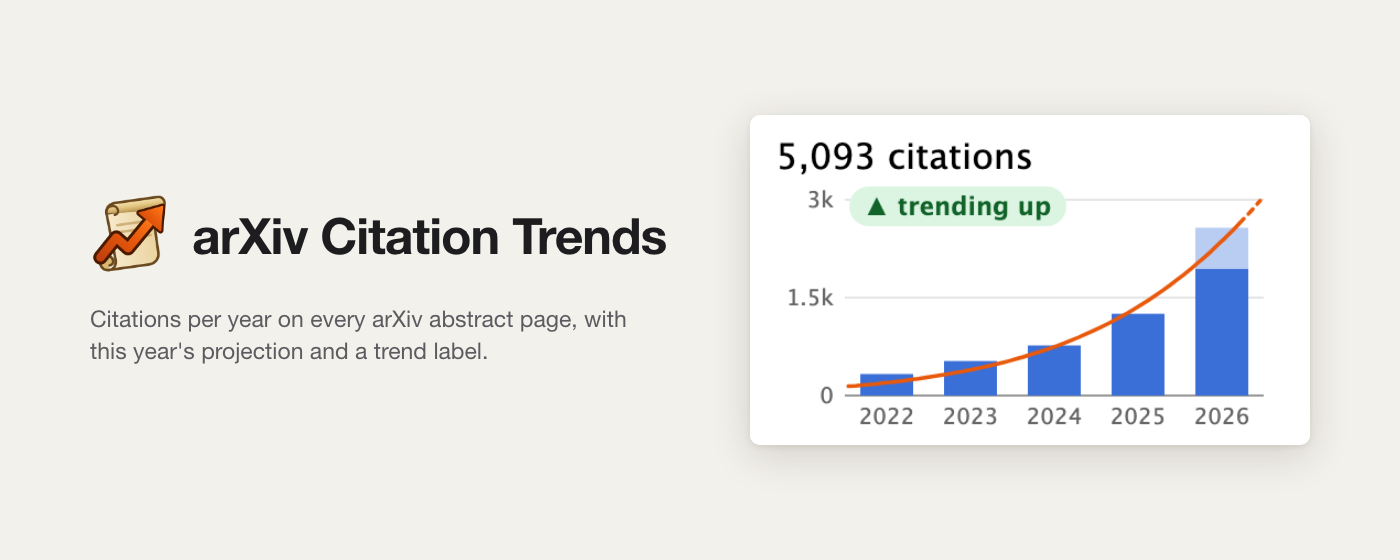
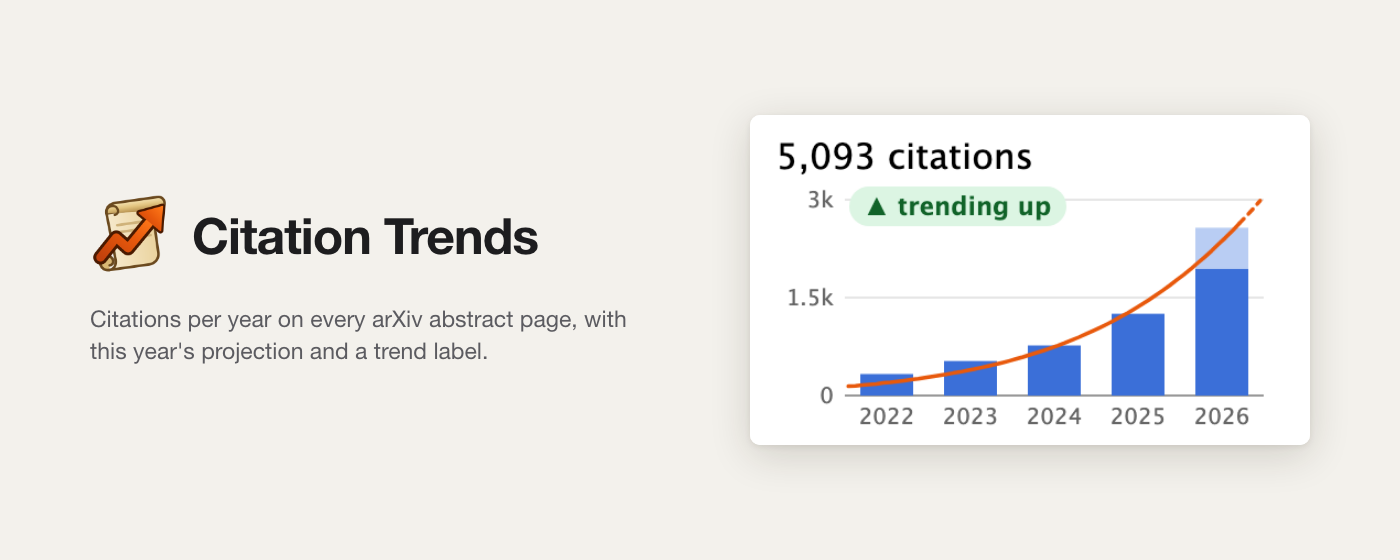
Rename to Citation Trends; store listing text; not-affiliated notes

Changed region(s): [[0.1229, 0.3643, 0.4914, 0.4554]]

diff --git a/static/options.html b/static/options.html
@@ -2,7 +2,7 @@
 <html lang="en">
 <head>
   <meta charset="utf-8">
-  <title>arXiv Citation Trends options</title>
+  <title>Citation Trends options</title>
   <style>
     body { font: 13px/1.5 -apple-system, BlinkMacSystemFont, "Segoe UI", Roboto, sans-serif; margin: 16px; min-width: 360px; color: #222; background: #fff; }
     label { display: block; font-weight: 600; margin-bottom: 4px; }

diff --git a/docs/store/listing.md b/docs/store/listing.md
@@ -1,0 +1,33 @@
+# Chrome Web Store listing
+
+**Name:** Citation Trends
+
+**Summary** (132 characters max):
+Citations per year on arXiv abstract pages, with this year's projection and a trend label. Not affiliated with arXiv.
+
+**Category:** Productivity
+
+**Description:**
+
+See where a paper is heading. Citation Trends adds a small chart to every arXiv abstract page, right under "Access Paper":
+
+- Citations per year for the last five years
+- The projected total for this year
+- An S-curve fit of the citation rate
+- A label: trending up, flat or trending down
+
+Hover a bar for that year's count, or the label for the numbers behind it.
+
+Citation data comes from Semantic Scholar. A free Semantic Scholar API key, added in the extension options, makes loading faster.
+
+Citation Trends is an independent project. It is not affiliated with, reviewed by or endorsed by arXiv or Semantic Scholar.
+
+**Single purpose:** show citation trends for the paper on an arXiv abstract page.
+
+**Permission justifications:**
+- storage: caches citation counts so charts load instantly, and keeps the optional API key.
+- api.semanticscholar.org: source of citation data.
+
+**Data usage:** no user data collected.
+
+**Privacy policy:** https://github.com/squarerootminusone/arxiv-citation-trends/blob/main/PRIVACY.md

diff --git a/README.md b/README.md
@@ -1,8 +1,8 @@
 <img src="static/icons/icon128.png" width="64" alt="">
 
-# arXiv Citation Trends
+# Citation Trends
 
-Citations per year on every arXiv abstract page, with a projection for this year and a trend label.
+Citations per year on every arXiv abstract page, with a projection for this year and a trend label. Not affiliated with or endorsed by arXiv.
 
 <img src="docs/screenshot.png" width="260" alt="1,107 citations, trending up: bars for 2022 to 2026 with an S-curve and this year's projection">
 

diff --git a/PRIVACY.md b/PRIVACY.md
@@ -1,6 +1,6 @@
 # Privacy
 
-arXiv Citation Trends collects no personal data and has no server of its own.
+Citation Trends collects no personal data and has no server of its own.
 
 **What it reads.** On arXiv abstract pages (`arxiv.org/abs/...`) it reads the paper id from the page address. It reads nothing else from any page, and it does not run on other sites.
 
